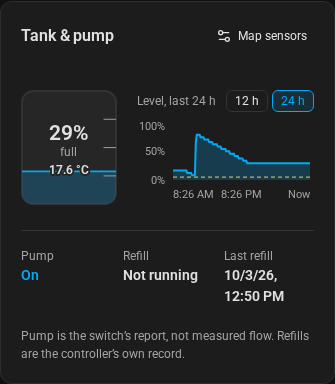
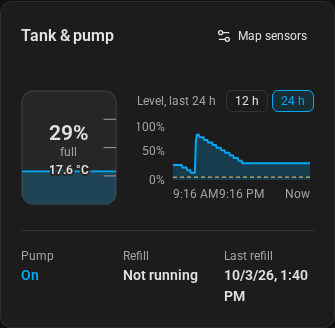
docs: the tank card without its footnote

diff --git a/CHANGELOG.md b/CHANGELOG.md
@@ -18,6 +18,8 @@ and this project adheres to [Semantic Versioning](https://semver.org/spec/v2.0.0
   down, and the reservoir's minimum as a dashed line. The tank's temperature, where a sensor is
   mapped for it, moves into the tank as a small line under how full it is, and is left out where
   none is, instead of reading "Not mapped".
+- **Less text on the tank card.** Its footnote ("Pump is the switch's report, not measured flow…")
+  is gone.
 
 ### 🔧 Technical notes
 
@@ -31,6 +33,7 @@ and this project adheres to [Semantic Versioning](https://semver.org/spec/v2.0.0
   line in the tank drawing, whose words have a halo so the waterline passes behind them. The demo
   records a reservoir level with a refill and rounds of shots. No change to the integration or the
   controller.
+- Dashboard: the tank card's footnote (`.tank-note`) is removed.
 - Docs: the user guide's tank section; the screenshot.
 - Tests: `levelSeries` (distance and % sensors, a step's middle reading, the level held through
   steps with no reading, the level now at the end), the card's level source, and history limited to

diff --git a/addons/f2_control/CHANGELOG.md b/addons/f2_control/CHANGELOG.md
@@ -1,6 +1,7 @@
 # Unreleased
 
 - **The dashboard the app serves:** the tank card charts the reservoir's level over the last 12 or 24 hours, from Home Assistant's recorded history of its level sensor. No change to the controller.
+- **The dashboard the app serves:** the tank card's footnote is gone. No change to the controller.
 
 # 2.33.0
 
